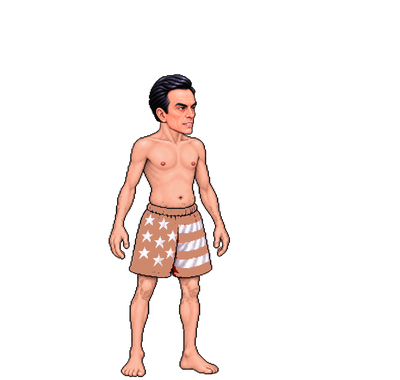
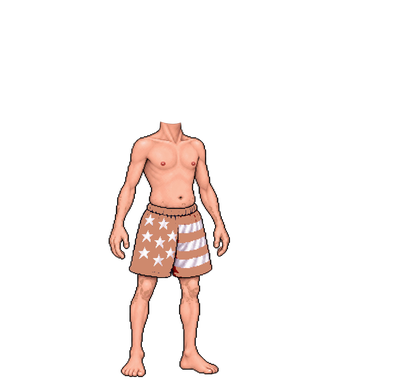
Guardia: cabeza al frente del cuello; letrero de Cine Tauro visible
La cabeza se horneaba junto con el cuerpo base y la prenda (saco) se
dibujaba encima de todo, así que el cuello de la prenda a veces tapaba
parte de la barbilla/mandíbula, dejando un corte oscuro junto al cuello
("muñón"). Ahora el cuerpo base va sin cabeza, y la cabeza de cada
personaje es su propia pieza que se dibuja al final, por encima de saco
y pantalón: así siempre tapa limpiamente cualquier borde de la prenda en
vez de que la prenda tape la cara.

También: el letrero de neón "Cine Tauro" quedaba cortado en el escenario
porque el fondo se centra horizontalmente y el letrero está hacia la
derecha de la foto original. Se agregó un ancla horizontal por escenario
(bgAnchor) y se ajustó la de Cine Tauro para que el letrero completo
quede dentro de cuadro.

Claude-Session: https://claude.ai/code/session_012zVcprR4KorysHkABMXdfX

Changed region(s): [[0.36, 0.1737, 0.51, 0.3763]]

diff --git a/farmeando/public/game.js b/farmeando/public/game.js
@@ -11,7 +11,7 @@ const $ = id => document.getElementById(id);
 const STAGES = [
   { key: 'rusia', name: 'RUSIA', sub: 'Plaza Roja', idle: [0.6, 1.2], guard: [0.8, 1.3], charge: 0.85, feint: 0 },
   { key: 'casa', name: 'CASA DE LA LITERATURA', sub: 'Silencio, por favor', idle: [0.5, 1.0], guard: [0.7, 1.2], charge: 0.72, feint: 0.1 },
-  { key: 'tauro', name: 'CINE TAURO', sub: 'Función de medianoche', idle: [0.45, 0.9], guard: [0.6, 1.1], charge: 0.62, feint: 0.2 },
+  { key: 'tauro', name: 'CINE TAURO', sub: 'Función de medianoche', idle: [0.45, 0.9], guard: [0.6, 1.1], charge: 0.62, feint: 0.2, bgAnchor: 0.9 },
   { key: 'misa', name: 'LA MISA DEL PAPA', sub: 'Las Palmas · caos total', idle: [0.4, 0.8], guard: [0.5, 1.0], charge: 0.55, feint: 0.3 },
 ];
 const ROUND_TIME = 60, CLOSET = 5;
@@ -129,6 +129,10 @@ function makeCompositeSilo(f) {
     const p = f.slots[slot]; if (!p) return;
     const img = siloImg(p.src, slot, p.look); if (img) x.drawImage(img, 0, 0);
   });
+  // La cabeza va siempre al frente de todo: así tapa el "muñón" donde el
+  // cuello de la prenda no calza exacto con la foto del cuerpo, en vez de
+  // que el cuello quede por encima tapando parte de la cara.
+  const head = IMG[c + '_silo_head']; if (head) x.drawImage(head, 0, 0);
 }
 function makeComposite(f, pose) {
   if (pose === 'guard') return makeCompositeSilo(f);
@@ -413,14 +417,14 @@ function txt(t, x, y, size, col = '#fff', align = 'center', stroke = 6) {
   g.font = size + 'px "Press Start 2P", monospace'; g.textAlign = align; g.lineJoin = 'round';
   g.lineWidth = stroke; g.strokeStyle = '#000'; g.strokeText(t, x, y); g.fillStyle = col; g.fillText(t, x, y);
 }
-function drawBG(key, dim = 0, full = false) {
+function drawBG(key, dim = 0, full = false, anchorX = 0.5) {
   const img = IMG['bg_' + key];
   g.fillStyle = '#12061f'; g.fillRect(0, 0, W, H);
   if (img) {
     const y0 = full ? 0 : SCENE_Y, ah = full ? H : SCENE_H;
     const sc = Math.max(W / img.width, ah / img.height), w = img.width * sc, h = img.height * sc;
     g.save(); g.beginPath(); g.rect(0, y0, W, ah); g.clip();
-    g.drawImage(img, (W - w) / 2, y0 + ah - h, w, h); g.restore();
+    g.drawImage(img, (W - w) * anchorX, y0 + ah - h, w, h); g.restore();
     if (!full) { g.fillStyle = '#ff3fd2'; g.fillRect(0, y0 + ah, W, 3); }
   }
   if (dim) { g.fillStyle = `rgba(10,0,25,${dim})`; g.fillRect(0, 0, W, H); }
@@ -533,7 +537,7 @@ function render() {
   if (state === 'title') { drawTitle(); g.restore(); return; }
   if (state === 'select') { drawSelect(); g.restore(); return; }
   if (state === 'name' || state === 'top') { drawBG('lima', 0.8, true); g.restore(); return; }
-  drawBG(STAGES[stageIdx].key);
+  drawBG(STAGES[stageIdx].key, 0, false, STAGES[stageIdx].bgAnchor ?? 0.5);
   drawFighter(P); drawFighter(R);
   fx.forEach(e => {
     if (e.t < 0) return;
@@ -734,8 +738,9 @@ function loop(now) { const dt = Math.min(0.05, (now - last) / 1000 || 0); last =
   try { META = await (await fetch('assets/meta.json?v=14')).json(); } catch (e) { }
   await Promise.all([
     ...['kunte', 'espa'].flatMap(c => ['guard', 'attack', 'block', 'hit', 'win1', 'win2'].map(p => loadImg(c + '_' + p, 'assets/' + c + '_' + p + '.png?v=14'))),
-    ...['kunte', 'espa'].flatMap(c => [loadImg(c + '_silo_base', 'assets/silo/' + c + '_base.png?v=14'),
-      ...[1, 2, 3, 4].flatMap(i => [loadImg(c + '_silo_saco_' + i, 'assets/silo/' + c + '_saco_' + i + '.png?v=14'), loadImg(c + '_silo_panta_' + i, 'assets/silo/' + c + '_panta_' + i + '.png?v=14')])]),
+    ...['kunte', 'espa'].flatMap(c => [loadImg(c + '_silo_base', 'assets/silo/' + c + '_base.png?v=15'),
+      loadImg(c + '_silo_head', 'assets/silo/' + c + '_head.png?v=15'),
+      ...[1, 2, 3, 4].flatMap(i => [loadImg(c + '_silo_saco_' + i, 'assets/silo/' + c + '_saco_' + i + '.png?v=15'), loadImg(c + '_silo_panta_' + i, 'assets/silo/' + c + '_panta_' + i + '.png?v=15')])]),
     fetch('assets/fx/fx.json?v=7').then(r => r.json()).then(j => { FXM = j; return Promise.all(Object.keys(j).map(k => loadImg('fx_' + k, 'assets/fx/' + k + '.png?v=7'))); }).catch(() => { }),
     loadImg('kunte_ko', 'assets/kunte_ko.png'), loadImg('espa_ko', 'assets/espa_ko.png'),
     loadImg('kunte_win', 'assets/kunte_win.png'), loadImg('espa_win', 'assets/espa_win.png'),

diff --git a/farmeando/public/index.html b/farmeando/public/index.html
@@ -110,6 +110,6 @@
     </div>
   </div>
 </div>
-<script src="game.js?v=14"></script>
+<script src="game.js?v=15"></script>
 </body>
 </html>
